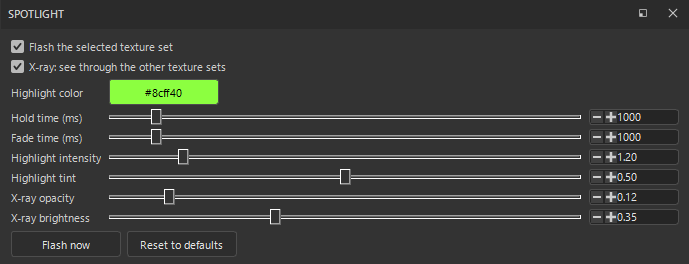
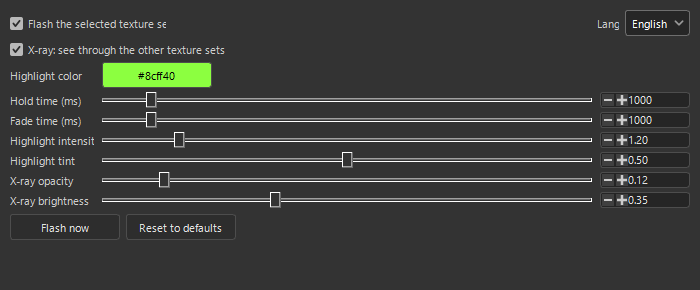
Japanese / English UI switch in the settings panel

diff --git a/texset_spotlight.py b/texset_spotlight.py
@@ -42,8 +42,29 @@ POLL_MS = 150
 FADE_STEP_MS = 33
 
 _defaults = {"enabled": True, "xray": True, "hold_ms": 1000, "fade_ms": 1000, "color": [0.55, 1.0, 0.25],
-             "intensity": 1.2, "tint": 0.5, "ghost_alpha": 0.12, "ghost_dim": 0.35}
+             "intensity": 1.2, "tint": 0.5, "ghost_alpha": 0.12, "ghost_dim": 0.35,
+             "lang": "ja" if QtCore.QLocale.system().name().startswith("ja") else "en"}
 _plugin = None
+
+# UI strings. The panel has a language switch; the default follows the system locale.
+TEXT = {
+    "en": {"menu": "Spotlight", "open": "Open the Spotlight panel", "panel": "Spotlight", "language": "Language",
+           "enabled": "Flash the selected texture set", "xray": "X-ray: see through the other texture sets",
+           "color": "Highlight color", "color_dialog": "Spotlight color", "hold_ms": "Hold time (ms)", "fade_ms": "Fade time (ms)",
+           "intensity": "Highlight intensity", "tint": "Highlight tint", "ghost_alpha": "X-ray opacity", "ghost_dim": "X-ray brightness",
+           "flash_now": "Flash now", "reset": "Reset to defaults"},
+    "ja": {"menu": "スポットライト", "open": "スポットライトのパネルを開く", "panel": "スポットライト", "language": "言語",
+           "enabled": "選んだテクスチャセットを光らせる", "xray": "X-ray: ほかのテクスチャセットを透かして中を見せる",
+           "color": "光の色", "color_dialog": "光の色", "hold_ms": "表示する時間 (ms)", "fade_ms": "消える時間 (ms)",
+           "intensity": "光の強さ", "tint": "色味の混ぜ具合", "ghost_alpha": "X-ray の不透明度", "ghost_dim": "X-ray の明るさ",
+           "flash_now": "今のセットを光らせる", "reset": "既定に戻す"},
+}
+LANGS = [("en", "English"), ("ja", "日本語")]
+
+
+def T(cfg, key):
+    lang = cfg.get("lang") if cfg.get("lang") in TEXT else "en"
+    return TEXT[lang].get(key, TEXT["en"].get(key, key))
 
 
 def log(msg):
@@ -64,6 +85,8 @@ def load_settings():
         try:
             if isinstance(v, bool):
                 out[k] = str(val).lower() in ("1", "true")
+            elif isinstance(v, str):
+                out[k] = str(val)
             elif isinstance(v, int):
                 out[k] = int(val)
             elif isinstance(v, float):
@@ -331,12 +354,22 @@ class Spotlight(QtCore.QObject):
             pass
         # Painter's menu bar only accepts menus, so "Spotlight" is a menu that opens the panel as soon as it is
         # clicked (aboutToShow) and closes itself again; its single item does the same for keyboard users.
-        self.menu_action = QtGui.QAction("Open the Spotlight panel")
+        self.menu_action = QtGui.QAction(T(self.cfg, "open"))
         self.menu_action.triggered.connect(self.show_panel)
-        self.menu = QtWidgets.QMenu("Spotlight")
+        self.menu = QtWidgets.QMenu(T(self.cfg, "menu"))
         self.menu.addAction(self.menu_action)
         self.menu.aboutToShow.connect(self.on_menu_clicked)
         spui.add_menu(self.menu)
+
+    def retranslate(self):
+        """Apply the current language to the menu, the dock title and the panel."""
+        try:
+            self.menu.setTitle(T(self.cfg, "menu"))
+            self.menu_action.setText(T(self.cfg, "open"))
+            self.dock.setWindowTitle(T(self.cfg, "panel"))
+            self.panel.retranslate()
+        except Exception as e:
+            log("retranslate failed: %r" % (e,))
 
     def on_menu_clicked(self):
         QtCore.QTimer.singleShot(0, self.menu.hide)
@@ -354,7 +387,9 @@ class Spotlight(QtCore.QObject):
     def update_setting(self, key, value):
         self.cfg[key] = value
         save_settings(self.cfg)
-        if key == "enabled":
+        if key == "lang":
+            self.retranslate()
+        elif key == "enabled":
             if not value:
                 self.restore()
             self.last_name = None
@@ -395,17 +430,28 @@ class SettingsPanel(QtWidgets.QWidget):
     def __init__(self, owner):
         super().__init__()
         self.owner = owner
-        self.setWindowTitle("Spotlight")
+        self.setWindowTitle(T(owner.cfg, "panel"))
         self.setObjectName("TexSetSpotlightPanel")
         self.controls = {}
+        self.labels = {}
         lay = QtWidgets.QVBoxLayout(self)
         lay.setContentsMargins(10, 10, 10, 10)
         lay.setSpacing(6)
 
-        self.chk_enabled = QtWidgets.QCheckBox("Flash the selected texture set")
+        top = QtWidgets.QHBoxLayout()
+        self.chk_enabled = QtWidgets.QCheckBox()
         self.chk_enabled.toggled.connect(lambda on: owner.update_setting("enabled", bool(on)))
-        lay.addWidget(self.chk_enabled)
-        self.chk_xray = QtWidgets.QCheckBox("X-ray: see through the other texture sets")
+        top.addWidget(self.chk_enabled)
+        top.addStretch(1)
+        self.labels["language"] = QtWidgets.QLabel()
+        top.addWidget(self.labels["language"])
+        self.lang_combo = QtWidgets.QComboBox()
+        for code, name in LANGS:
+            self.lang_combo.addItem(name, code)
+        self.lang_combo.currentIndexChanged.connect(lambda i: owner.update_setting("lang", self.lang_combo.itemData(i)))
+        top.addWidget(self.lang_combo)
+        lay.addLayout(top)
+        self.chk_xray = QtWidgets.QCheckBox()
         self.chk_xray.toggled.connect(lambda on: owner.update_setting("xray", bool(on)))
         lay.addWidget(self.chk_xray)
 
@@ -417,29 +463,44 @@ class SettingsPanel(QtWidgets.QWidget):
         self.color_btn = QtWidgets.QPushButton()
         self.color_btn.setFixedWidth(90)
         self.color_btn.clicked.connect(self.pick_color)
-        form.addWidget(QtWidgets.QLabel("Highlight color"), self.row, 0)
+        self.labels["color"] = QtWidgets.QLabel()
+        form.addWidget(self.labels["color"], self.row, 0)
         form.addWidget(self.color_btn, self.row, 1)
         self.row += 1
-        self.add_slider(form, "hold_ms", "Hold time (ms)", 100, 10000, 100, 1)
-        self.add_slider(form, "fade_ms", "Fade time (ms)", 100, 10000, 100, 1)
-        self.add_slider(form, "intensity", "Highlight intensity", 0.0, 8.0, 0.1, 100)
-        self.add_slider(form, "tint", "Highlight tint", 0.0, 1.0, 0.05, 100)
-        self.add_slider(form, "ghost_alpha", "X-ray opacity", 0.0, 1.0, 0.01, 100)
-        self.add_slider(form, "ghost_dim", "X-ray brightness", 0.0, 1.0, 0.05, 100)
+        self.add_slider(form, "hold_ms", 100, 10000, 100, 1)
+        self.add_slider(form, "fade_ms", 100, 10000, 100, 1)
+        self.add_slider(form, "intensity", 0.0, 8.0, 0.1, 100)
+        self.add_slider(form, "tint", 0.0, 1.0, 0.05, 100)
+        self.add_slider(form, "ghost_alpha", 0.0, 1.0, 0.01, 100)
+        self.add_slider(form, "ghost_dim", 0.0, 1.0, 0.05, 100)
 
         btns = QtWidgets.QHBoxLayout()
-        b1 = QtWidgets.QPushButton("Flash now")
-        b1.clicked.connect(owner.flash_now)
-        b2 = QtWidgets.QPushButton("Reset to defaults")
-        b2.clicked.connect(self.reset_defaults)
-        btns.addWidget(b1)
-        btns.addWidget(b2)
+        self.btn_flash = QtWidgets.QPushButton()
+        self.btn_flash.clicked.connect(owner.flash_now)
+        self.btn_reset = QtWidgets.QPushButton()
+        self.btn_reset.clicked.connect(self.reset_defaults)
+        btns.addWidget(self.btn_flash)
+        btns.addWidget(self.btn_reset)
         btns.addStretch(1)
         lay.addLayout(btns)
         lay.addStretch(1)
+        self.retranslate()
         self.refresh()
 
-    def add_slider(self, form, key, label, lo, hi, step, scale):
+    def retranslate(self):
+        cfg = self.owner.cfg
+        self.setWindowTitle(T(cfg, "panel"))
+        self.chk_enabled.setText(T(cfg, "enabled"))
+        self.chk_xray.setText(T(cfg, "xray"))
+        for key, label in self.labels.items():
+            label.setText(T(cfg, key))
+        self.btn_flash.setText(T(cfg, "flash_now"))
+        self.btn_reset.setText(T(cfg, "reset"))
+        self.lang_combo.blockSignals(True)
+        self.lang_combo.setCurrentIndex(max(0, self.lang_combo.findData(cfg.get("lang", "en"))))
+        self.lang_combo.blockSignals(False)
+
+    def add_slider(self, form, key, lo, hi, step, scale):
         """Slider + spin box pair. `scale` maps float values to slider integers (1 for int settings)."""
         is_int = scale == 1
         slider = QtWidgets.QSlider(QtCore.Qt.Horizontal)
@@ -476,7 +537,8 @@ class SettingsPanel(QtWidgets.QWidget):
 
         slider.valueChanged.connect(from_slider)
         spin.valueChanged.connect(from_spin)
-        form.addWidget(QtWidgets.QLabel(label), self.row, 0)
+        self.labels[key] = QtWidgets.QLabel()
+        form.addWidget(self.labels[key], self.row, 0)
         form.addWidget(slider, self.row, 1)
         form.addWidget(spin, self.row, 2)
         self.row += 1
@@ -505,13 +567,15 @@ class SettingsPanel(QtWidgets.QWidget):
 
     def pick_color(self):
         c = self.owner.cfg["color"]
-        col = QtWidgets.QColorDialog.getColor(QtGui.QColor.fromRgbF(c[0], c[1], c[2]), self, "Spotlight color")
+        col = QtWidgets.QColorDialog.getColor(QtGui.QColor.fromRgbF(c[0], c[1], c[2]), self, T(self.owner.cfg, "color_dialog"))
         if col.isValid():
             self.owner.update_setting("color", [col.redF(), col.greenF(), col.blueF()])
             self.update_color_button()
 
     def reset_defaults(self):
         for k, v in _defaults.items():
+            if k == "lang":
+                continue  # keep the chosen language
             self.owner.cfg[k] = list(v) if isinstance(v, list) else v
         save_settings(self.owner.cfg)
         self.refresh()

diff --git a/README.md b/README.md
@@ -20,6 +20,7 @@ semi-transparent during the flash so you can also spot parts hidden inside the m
 - Click **Spotlight** in the menu bar to open the settings panel: everything in one dockable window
   (enable/disable, X-ray, highlight color, hold/fade time, intensity, tint, X-ray opacity/brightness, Flash now,
   Reset to defaults). Changes apply immediately and persist between sessions
+- UI in English or Japanese (switch in the panel; defaults to Japanese on a Japanese system)
 
 ![Settings panel](docs/spotlight_panel.png)
 
@@ -88,6 +89,9 @@ Substance 3D Painter 用プラグインです。「X-ray」をオンにすると
 - メニューバーの「Spotlight」をクリックすると設定パネルが開く（Painter のドックなので好きな場所に置ける。閉じたら
   ウィンドウメニューから再表示）。有効/無効、X-ray、色、表示時間、消える時間、強さ、色味、X-ray の不透明度・明るさ、
   今すぐ光らせる、既定に戻す、がすべてこのパネルにある。変えた値はその場で反映され、次回起動後も残る
+- パネル右上の「言語」で日本語と English を切り替えられる（日本語の Windows では最初から日本語）
+
+![設定パネル（日本語）](docs/spotlight_panel_ja.png)
 
 ### 入れ方
 `texset_spotlight.py` と `texset_spotlight_shader.glsl` を Painter のプラグインフォルダー
